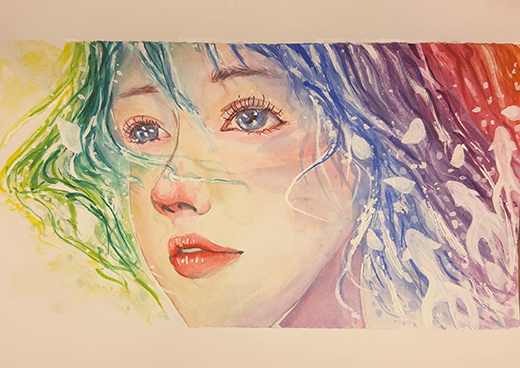
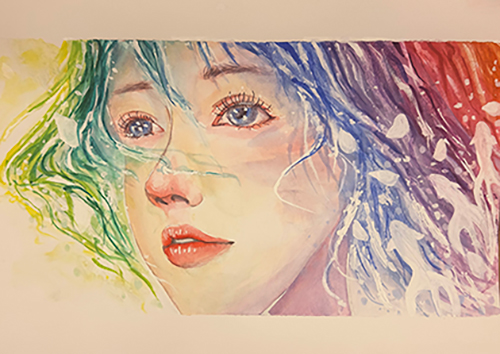
optimized

diff --git a/everypicture/v2-final-version/styles.css b/everypicture/v2-final-version/styles.css
@@ -27,7 +27,7 @@ header {
     justify-content: center;
     flex-direction: column;
     text-align: center;
-    padding-left: 64px;
+    padding-left: 40px;
 }
 
 h1 {
@@ -71,7 +71,7 @@ main {
     display: flex;
     align-items: center;
     justify-content: center;
-    padding-right: 64px;
+    padding-right: 40px;
 }
 
 .frame {
@@ -86,12 +86,10 @@ main {
 }
 
 .outer {
-    border: 36px solid #242424; 
+    border: 32px solid #242424; 
     box-shadow: 0 10px 30px rgba(0,0,0,0.8);
 }
 
 .frame img {
-    width: auto;
-    height: 520px;
     display: block;
 }

diff --git a/everypicture/v2-final-version/index.html b/everypicture/v2-final-version/index.html
@@ -30,12 +30,12 @@
             <div class="outer">
                 <div class="gold">
                     <div class="frame">
-                        <img src="images/mononoke.jpg" alt="cartoon">
+                        <img src="images/cartoon.jpg" alt="cartoon">
                     </div>
                 </div>
             </div>
             <!-- additional images implemented via js -->
-        </main>
+        </main> 
     </div>
 </body>
 
